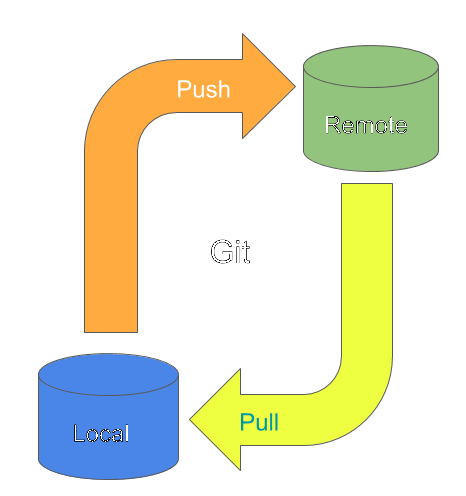
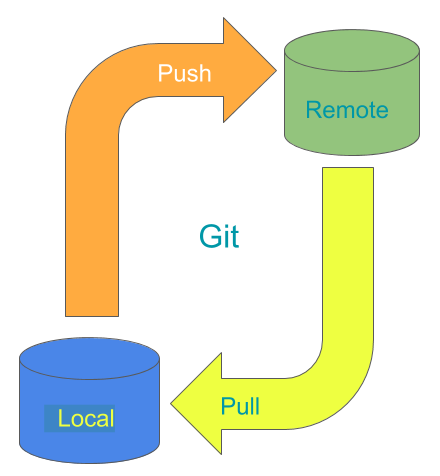
beta draft

diff --git a/git/handson.html b/git/handson.html
@@ -324,39 +324,77 @@ div.tocify {
 <ul>
 <li><a href="https://gitlab.oit.duke.edu/help/ssh/README" class="uri">https://gitlab.oit.duke.edu/help/ssh/README</a></li>
 </ul>
-<p>This step was covered in the <a href="outline.html#genearte_ssh_keys_in_advance_of_the_workshop">Outline Section</a></p>
+<p>This step was covered in the <a href="outline.html#generate_ssh_keys_in_advance_of_the_workshop">Outline Section</a></p>
 </div>
 <div id="make-a-repository" class="section level2">
 <h2>Make a Repository</h2>
 <ol style="list-style-type: decimal">
-<li>Duke’s GitLab – <a href="https://gitlab.oit.duke.edu" class="uri">https://gitlab.oit.duke.edu</a></li>
+<li>Duke’s GitLab – <a href="https://gitlab.oit.duke.edu" target="_blank">https://gitlab.oit.duke.edu</a></li>
 <li>Duke Shibboleth Login</li>
-<li>New Project</li>
-<li><p>Add a project name: <code>test-one</code> &gt; Create Project</p>
+<li><p>New Project</p>
 <ul>
-<li>Notice command line instructions. Could come in handy<br />
-</li>
+<li><img src="images/new_gitlab_project_button.png" title="fig:" /></li>
 </ul></li>
-<li>Make a README file (click the README link) &gt; <code>Commit changes</code></li>
-<li><p>Make a license file (click the LICENSE link)</p>
+<li><p>Add a project name. Use the name <em>test-one</em></p>
 <ul>
-<li>click <em>Appply a license format</em> &gt; choose <em>MIT</em> (or paste in a Creative Commons License) &gt; <code>Commit changes</code><br />
-</li>
+<li><img src="images/project_name.png" /> <code>--&gt;</code> <code>test-one</code></li>
+<li><img src="images/create_project.png" /> – Create Project</li>
+<li>On the Next Page, notice the section below <em>Command line instructions</em>. That information could come in handy. For future repositories, you may want to make a note of those <em>Git</em> commands.</li>
 </ul></li>
-<li><p>Make a .gitignore file (click the .gitignore link)</p>
-<ul>
-<li>click <em>Apply a .gitignore format</em> &gt; choose <em>R</em> &gt; <code>Commit changes</code><br />
-</li>
-</ul></li>
-<li><p>Bring the repo down locally via RStudio</p>
+<li><p>Make a README file</p>
 <ol style="list-style-type: decimal">
-<li>Back at your GitLab repo <code>https://gitlab.oit.duke.edu/&lt;&lt;your-NetID&gt;&gt;/test-one</code>, copyURL to clipboard (click icon)</li>
-<li>Launch RStudio, Menubar: <em>File &gt; New Project</em> &gt; Version Control &gt; Git &gt; paste the URL from the step above into <em>Repository URL:</em></li>
+<li><img src="images/readme.png" /> <br>Open in a New Tab, click the README link<br />
+</li>
+<li>Commit changes</li>
+</ol></li>
+<li><p>Make a license file (Open in a New Tab, click the LICENSE link)</p>
+<ol style="list-style-type: decimal">
+<li><img src="images/license.png" /> <br>click <em>Appply a license format</em> &gt; choose <em>MIT</em> (or paste in a Creative Commons License)</li>
+<li>Commit changes</li>
+</ol></li>
+<li><p>Make a .gitignore file (Open in a New Tab, click the .gitignore link)</p>
+<ol style="list-style-type: decimal">
+<li><p>click <em>Apply a .gitignore format</em></p>
+<ul>
+<li>choose <em>R</em></li>
+</ul></li>
+<li><p>Commit changes</p></li>
+</ol></li>
+<li><p>Congratulations. You’ve just created your first GitLab repository. Click <em>test-one</em> in the top-left of your screen and you’ll see your repository – including the three files you just created.</p></li>
+</ol>
+</div>
+<div id="clone" class="section level2">
+<h2>Clone</h2>
+<p>Using RStudio, clone your repository. This will pull down the whole repo including the three files you just created.</p>
+<div id="bring-the-repo-down-locally-via-rstudio" class="section level3">
+<h3>Bring the repo down locally via RStudio</h3>
+<ol style="list-style-type: decimal">
+<li><p>Copy GitLab URL to clipboard</p>
+<ul>
+<li><img src="images/copy_repo.png" /> – Copy the repo URL</li>
+<li>repo <code>https://gitlab.oit.duke.edu/&lt;&lt;your-NetID&gt;&gt;/test-one</code>, copyURL to clipboard (click icon)</li>
+</ul></li>
+<li><p>Launch RStudio and create a <em>New Project…</em></p>
+<ol style="list-style-type: decimal">
+<li><p>Menubar: <em>File &gt; New Project…</em> &gt; Version Control &gt; Git &gt; paste the URL from the step above into <em>Repository URL:</em> <br></p>
+<div class="figure">
+<img src="images/project_version_git.png" />
+
+</div></li>
+<li><p>Create Project</p></li>
 </ol></li>
 </ol>
 </div>
-<div id="edit-commit-and-push-your-repo-in-rstudio" class="section level2">
-<h2>Edit, Commit, and Push your Repo in RStudio</h2>
+</div>
+<div id="push-edit-and-commit" class="section level2">
+<h2>Push: Edit and Commit</h2>
+<p>This time you’ll make local changes by editing your local repository. After saving the changes you’ll <em>add</em> and <em>commit</em> the changes. Lastly, you will <em>push</em> your changes up to the remote repoistory.</p>
+<div class="figure">
+<img src="images/push.png" />
+
+</div>
+<div id="edit" class="section level3">
+<h3>Edit</h3>
 <ol style="list-style-type: decimal">
 <li>In the Files Pane, Open the README.md file</li>
 <li><p>In the Editor Pane, modify your README with <a href="markdown.html">Markdown</a></p>
@@ -364,7 +402,12 @@ div.tocify {
 <li>Make a Subheading with the word “Purpose”: <code>##Purpose</code></li>
 <li>A blank line, then “This is my first Git repository. I’m going to push this file via RStudio”</li>
 </ul></li>
-<li>Save the changes to this file</li>
+<li><p>Save the changes to this file</p></li>
+</ol>
+</div>
+<div id="commit-push" class="section level3">
+<h3>Commit &amp; Push</h3>
+<ol style="list-style-type: decimal">
 <li><p>In the Git pane:</p>
 <ol style="list-style-type: decimal">
 <li>Check each of the staged files</li>
@@ -376,9 +419,14 @@ div.tocify {
 <li><p>View your changes back at GitLab: <code>https://gitlab.oit.duke.edu/&lt;&lt;your-NetID&gt;&gt;/test-one</code></p></li>
 </ol>
 </div>
+</div>
 <div id="pull" class="section level2">
 <h2>Pull</h2>
 <p>The next time you open your project in RStudio the first step you should take is to <em>Pull</em> from the GitLab repo. Then make your changes, then commit and push. If you forget to <em>Pull</em> you make have to resolve some conflicts so get into the habit of pulling before you make edits.</p>
+<div class="figure">
+<img src="images/git_push_pull.png" />
+
+</div>
 </div>
 <div id="public-or-private-repositories" class="section level2">
 <h2>Public or Private Repositories</h2>

diff --git a/git/resources.html b/git/resources.html
@@ -322,6 +322,17 @@ div.tocify {
 <h2>Resources</h2>
 <ul>
 <li><a href="https://www.rstudio.com/wp-content/uploads/2016/03/rmarkdown-cheatsheet-2.0.pdf">RMarkdown Cheatsheet</a></li>
+<li>Data Carpentry <a href="http://www.datacarpentry.org/rr-version-control/">Reproducible Research Version Control</a></li>
+<li>Duke’s Co-Lab <a href="https://extend.duke.edu/courses/course-v1:InnovationCoLab+998042043+2017/about">Introduction to Git</a></li>
+<li><p>Duke’s <a href="https://gitlab.oit.duke.edu/">GitLab</a></p>
+<ul>
+<li><a href="https://gitlab.oit.duke.edu/help/ssh/README">Managing SSH keys</a></li>
+</ul></li>
+<li><a href="http://happygitwithr.com/">Happy Git and GitHub for the useR</a></li>
+<li><a href="http://kbroman.org/Tools4RR/assets/lectures/07_clearcode.pdf">Writing clear code: Tools for Reproducible Research</a></li>
+<li><a href="http://kbroman.org/steps2rr/">Initial Steps Toward Reproducible Research</a></li>
+<li><a href="https://try.github.io/levels/1/challenges/1">Got 15 minutes</a> - Interactive tool to learn Git at the Command Line</li>
+<li><p><a href="https://www.codecademy.com/learn/learn-git">Learn Git | Course | Codeacademy</a> – Free</p></li>
 </ul>
 </div>
 

diff --git a/git/outline.html b/git/outline.html
@@ -372,8 +372,8 @@ div.tocify {
 </div>
 <div id="generate-ssh-keys-in-advance-of-the-workshop" class="section level3">
 <h3>Generate SSH keys in Advance of the Workshop</h3>
-<p>I recommend generating your SSH keys in advance of the workshop, then add your public key to Duke’s GitLab. To do so, you should have already installed Git to your laptop.</p>
-<p>Follow these instructions for generating and adding keys. We will cover key configuration in the workshop although you will find the explanation easier to follow if you generate your keys in advance.</p>
+<p>I recommend generating your SSH keys in advance of the workshop. Then add your public key to Duke’s GitLab. To do so, you should have already installed Git to your laptop.</p>
+<p>Follow these instructions for generating and adding keys. We will cover key configuration in the workshop although you will find the explanation easier to follow if you generate and add your keys in advance.</p>
 <ol style="list-style-type: decimal">
 <li><p>To begin, open a shell <strong>from RStudio</strong></p>
 <ul>

diff --git a/git/markdown.html b/git/markdown.html
@@ -344,11 +344,11 @@ Numbered list:
 
 Footnote:
 
-Method 1:
+- Method 1
 now is the time.[^random_id]
 [random_id]: citation and/or link text here
 
-Method 2: 
+- Method 2 
 (possibly only works in R Markdown)
 now is the time.^[citation and/or link text here]
 
